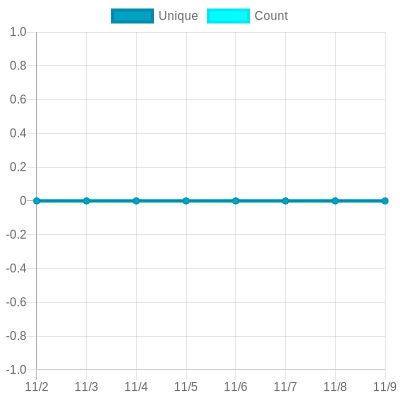
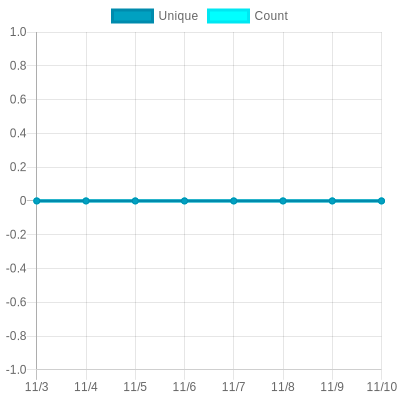
Update views

diff --git a/readme/475218523/month.md b/readme/475218523/month.md
@@ -21,6 +21,17 @@
 	</tr>
 	<tr>
 		<td>
+			<code>2022/11/10</code>
+		</td>
+		<td>
+			<code>0</code>
+		</td>
+		<td>
+			<code>0</code>
+		</td>
+	</tr>
+	<tr>
+		<td>
 			<code>2022/11/9</code>
 		</td>
 		<td>
@@ -349,21 +360,10 @@
 			<code>0</code>
 		</td>
 	</tr>
-	<tr>
-		<td>
-			<code>2022/10/10</code>
-		</td>
-		<td>
-			<code>0</code>
-		</td>
-		<td>
-			<code>0</code>
-		</td>
-	</tr>
 </table>
 
 </details>
-<small><i>Last updated on 2022/11/9 6:03 PM UTC</i></small>
+<small><i>Last updated on 2022/11/10 12:11 AM UTC</i></small>
 
 ## ✂Copy and 📋 Paste
 ### SVG Badge

diff --git a/readme/475218523/week.md b/readme/475218523/week.md
@@ -21,6 +21,17 @@
 	</tr>
 	<tr>
 		<td>
+			<code>2022/11/10</code>
+		</td>
+		<td>
+			<code>0</code>
+		</td>
+		<td>
+			<code>0</code>
+		</td>
+	</tr>
+	<tr>
+		<td>
 			<code>2022/11/9</code>
 		</td>
 		<td>
@@ -96,21 +107,10 @@
 			<code>0</code>
 		</td>
 	</tr>
-	<tr>
-		<td>
-			<code>2022/11/2</code>
-		</td>
-		<td>
-			<code>0</code>
-		</td>
-		<td>
-			<code>0</code>
-		</td>
-	</tr>
 </table>
 
 </details>
-<small><i>Last updated on 2022/11/9 6:03 PM UTC</i></small>
+<small><i>Last updated on 2022/11/10 12:11 AM UTC</i></small>
 
 ## ✂Copy and 📋 Paste
 ### SVG Badge

diff --git a/README.md b/README.md
@@ -26,7 +26,7 @@ The project created and maintained by [gayanvoice](https://github.com/gayanvoice
 			</a>
 		</td>
 		<td>
-			2022/11/7 12:12 AM UTC
+			2022/11/8 12:12 AM UTC
 		</td>
 		<td>
 			7
@@ -37,7 +37,7 @@ The project created and maintained by [gayanvoice](https://github.com/gayanvoice
 	</tr>
 </table>
 
-<small><i>Last updated on 2022/11/9 6:03 PM UTC</i></small>
+<small><i>Last updated on 2022/11/10 12:12 AM UTC</i></small>
 
 ## ✂Copy and 📋 Paste
 ### Total Views Badge

diff --git a/readme/475218523/year.md b/readme/475218523/year.md
@@ -165,7 +165,7 @@
 </table>
 
 </details>
-<small><i>Last updated on 2022/11/9 6:03 PM UTC</i></small>
+<small><i>Last updated on 2022/11/10 12:11 AM UTC</i></small>
 
 ## ✂Copy and 📋 Paste
 ### SVG Badge
